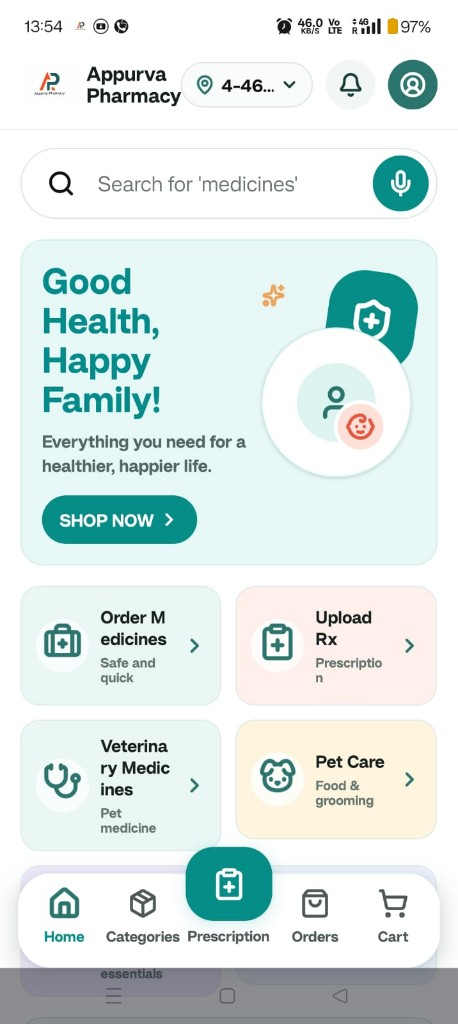
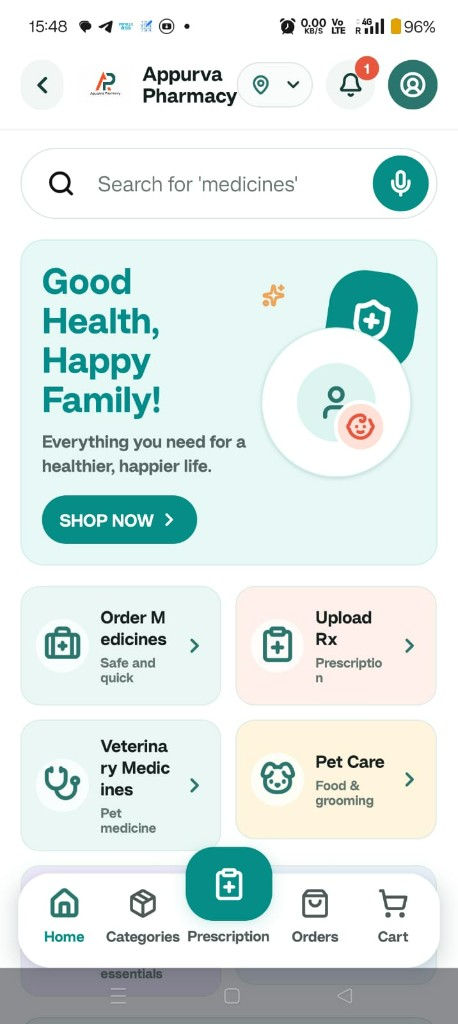
Add real Appurva Pharmacy app screenshots to mobile and case study sections.
Six production UI screens — home, categories, cart, orders, profile, and admin dashboard — in a labeled gallery below the app card.

diff --git a/src/components/ui/AppScreenshotGallery.tsx b/src/components/ui/AppScreenshotGallery.tsx
@@ -1,0 +1,57 @@
+"use client";
+
+import { motion, useReducedMotion } from "framer-motion";
+import { cn, withBasePath } from "@/lib/utils";
+
+export interface AppScreenshot {
+  src: string;
+  label: string;
+}
+
+interface AppScreenshotGalleryProps {
+  screenshots: AppScreenshot[];
+  className?: string;
+}
+
+export function AppScreenshotGallery({
+  screenshots,
+  className,
+}: AppScreenshotGalleryProps) {
+  const prefersReducedMotion = useReducedMotion();
+
+  return (
+    <div
+      className={cn(
+        "grid grid-cols-2 sm:grid-cols-3 lg:grid-cols-6 gap-4",
+        className
+      )}
+      role="list"
+      aria-label="App screenshots"
+    >
+      {screenshots.map((shot, index) => (
+        <motion.figure
+          key={shot.src}
+          role="listitem"
+          initial={prefersReducedMotion ? false : { opacity: 0, y: 16 }}
+          whileInView={{ opacity: 1, y: 0 }}
+          viewport={{ once: true, margin: "-40px" }}
+          transition={{ duration: 0.4, delay: index * 0.06 }}
+          className="group"
+        >
+          <div className="relative aspect-[9/19.5] rounded-2xl overflow-hidden border border-white/10 bg-zinc-900 shadow-lg shadow-black/20 transition-transform duration-300 group-hover:scale-[1.03] group-hover:border-accent/30">
+            {/* eslint-disable-next-line @next/next/no-img-element */}
+            <img
+              src={withBasePath(shot.src)}
+              alt={`${shot.label} screen`}
+              className="absolute inset-0 w-full h-full object-cover object-top"
+              loading="lazy"
+            />
+          </div>
+          <figcaption className="mt-2 text-center text-xs font-medium text-stone-400 group-hover:text-accent-muted transition-colors">
+            {shot.label}
+          </figcaption>
+        </motion.figure>
+      ))}
+    </div>
+  );
+}

diff --git a/src/app/projects/appurva-pharmacy/page.tsx b/src/app/projects/appurva-pharmacy/page.tsx
@@ -9,6 +9,7 @@ import { AnimatedGrid } from "@/components/layout/AnimatedGrid";
 import { Navbar } from "@/components/layout/Navbar";
 import { Footer } from "@/components/layout/Footer";
 import { PhoneMockup } from "@/components/ui/PhoneMockup";
+import { AppScreenshotGallery } from "@/components/ui/AppScreenshotGallery";
 import { withBasePath } from "@/lib/utils";
 
 export const metadata: Metadata = {
@@ -169,22 +170,26 @@ export default function AppurvaPharmacyCaseStudyPage() {
               >
                 Screenshots
               </h2>
-              <div className="grid grid-cols-2 md:grid-cols-3 gap-4">
-                {study.screenshots.map((screenshot, i) => (
-                  <div
-                    key={screenshot}
-                    className="relative aspect-[9/16] rounded-xl overflow-hidden border border-white/10 bg-zinc-900"
-                  >
-                    <Image
-                      src={screenshot}
-                      alt={`${study.title} screenshot ${i + 1}`}
-                      fill
-                      className="object-cover"
-                      sizes="(max-width: 768px) 50vw, 33vw"
-                    />
-                  </div>
-                ))}
-              </div>
+              {study.screenshotGallery ? (
+                <AppScreenshotGallery screenshots={study.screenshotGallery} />
+              ) : (
+                <div className="grid grid-cols-2 md:grid-cols-3 gap-4">
+                  {study.screenshots.map((screenshot, i) => (
+                    <div
+                      key={screenshot}
+                      className="relative aspect-[9/16] rounded-xl overflow-hidden border border-white/10 bg-zinc-900"
+                    >
+                      <Image
+                        src={screenshot}
+                        alt={`${study.title} screenshot ${i + 1}`}
+                        fill
+                        className="object-cover"
+                        sizes="(max-width: 768px) 50vw, 33vw"
+                      />
+                    </div>
+                  ))}
+                </div>
+              )}
             </section>
 
             <section aria-labelledby="challenges-heading">

diff --git a/src/data/projects.ts b/src/data/projects.ts
@@ -20,9 +20,24 @@ export interface ProductionProject {
   featured?: boolean;
 }
 
+export interface AppScreenshot {
+  src: string;
+  label: string;
+}
+
+export const appurvaPharmacyScreenshots: AppScreenshot[] = [
+  { src: "/app-screenshots/home.png", label: "Home" },
+  { src: "/app-screenshots/categories.png", label: "Categories" },
+  { src: "/app-screenshots/cart.png", label: "Cart" },
+  { src: "/app-screenshots/orders.png", label: "Orders" },
+  { src: "/app-screenshots/profile.png", label: "Profile" },
+  { src: "/app-screenshots/admin-dashboard.png", label: "Admin Dashboard" },
+];
+
 export interface MobileApp extends ProductionProject {
   features: string[];
   screenshots: string[];
+  screenshotGallery?: AppScreenshot[];
   demoVideo?: string;
 }
 
@@ -36,6 +51,7 @@ export interface CaseStudy {
   techStack: string[];
   architecture: string[];
   screenshots: string[];
+  screenshotGallery?: AppScreenshot[];
   demoVideo?: string;
   challenges: string[];
   futureImprovements: string[];
@@ -144,12 +160,8 @@ export const mobileApps: MobileApp[] = [
       "Android APK",
     ],
     category: "mobile",
-    screenshots: [
-      "/app-screenshots/home.png",
-      "/app-screenshots/catalog.svg",
-      "/app-screenshots/cart.svg",
-      "/app-screenshots/admin.svg",
-    ],
+    screenshots: appurvaPharmacyScreenshots.map((s) => s.src),
+    screenshotGallery: appurvaPharmacyScreenshots,
     demoVideo: "/videos/appurva-pharmacy-demo.mp4",
     links: {
       caseStudy: "/projects/appurva-pharmacy",
@@ -308,14 +320,8 @@ export const appurvaPharmacyCaseStudy: CaseStudy = {
     "Admin role-based access control",
     "EAS Build pipeline for Android APK",
   ],
-  screenshots: [
-    "/app-screenshots/home.png",
-    "/app-screenshots/catalog.svg",
-    "/app-screenshots/cart.svg",
-    "/app-screenshots/checkout.svg",
-    "/app-screenshots/orders.svg",
-    "/app-screenshots/admin.svg",
-  ],
+  screenshots: appurvaPharmacyScreenshots.map((s) => s.src),
+  screenshotGallery: appurvaPharmacyScreenshots,
   demoVideo: "/videos/appurva-pharmacy-demo.mp4",
   challenges: [
     "Designing prescription upload flow with validation and admin review",

diff --git a/src/components/sections/MobileSection.tsx b/src/components/sections/MobileSection.tsx
@@ -5,10 +5,12 @@ import {
   ArrowRight,
   Download,
   Github,
+  ImageIcon,
   Play,
 } from "lucide-react";
 import { mobileApps } from "@/data/projects";
 import { PhoneMockup } from "@/components/ui/PhoneMockup";
+import { AppScreenshotGallery } from "@/components/ui/AppScreenshotGallery";
 import { SkillBadge } from "@/components/ui/SkillBadge";
 import { SectionHeader } from "@/components/ui/SectionHeader";
 import { Button } from "@/components/ui/Button";
@@ -103,6 +105,10 @@ export function MobileSection() {
                   <Play className="w-4 h-4" aria-hidden="true" />
                   Watch Demo
                 </Button>
+                <Button href="#app-screenshots" variant="ghost">
+                  <ImageIcon className="w-4 h-4" aria-hidden="true" />
+                  Screenshots
+                </Button>
               </div>
             </div>
 
@@ -118,6 +124,25 @@ export function MobileSection() {
             </div>
           </div>
         </motion.article>
+
+        {app.screenshotGallery && app.screenshotGallery.length > 0 && (
+          <motion.div
+            id="app-screenshots"
+            initial={prefersReducedMotion ? false : { opacity: 0, y: 20 }}
+            whileInView={{ opacity: 1, y: 0 }}
+            viewport={{ once: true }}
+            className="mt-10 md:mt-12"
+          >
+            <h3 className="font-display text-xl md:text-2xl font-bold text-white mb-2 text-center">
+              App Screenshots
+            </h3>
+            <p className="text-sm text-stone-500 text-center mb-8 max-w-lg mx-auto">
+              Real UI from the production build — home, catalog, cart, orders,
+              profile, and admin dashboard.
+            </p>
+            <AppScreenshotGallery screenshots={app.screenshotGallery} />
+          </motion.div>
+        )}
       </div>
     </section>
   );